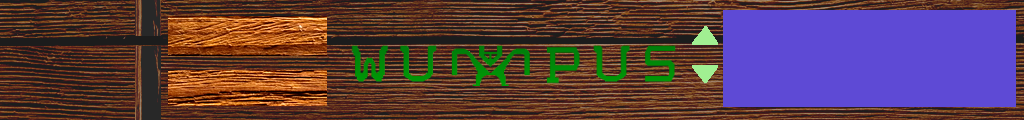
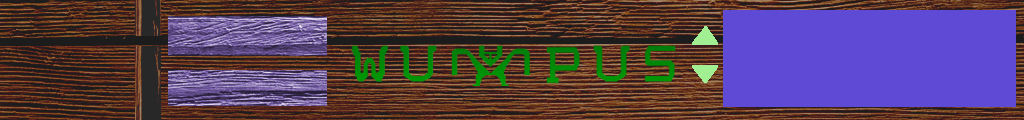
Add menu
Add menu. Add regionMenu and code to control. Add seed for PickMap. Change
bacjground(button). Add ChangeSeed to Utily

Changed region(s): [[0.1562, 0.125, 0.3438, 0.475], [0.1562, 0.575, 0.3438, 0.9]]

diff --git a/HuntTheWumpus/HuntTheWumpus/Control.cs b/HuntTheWumpus/HuntTheWumpus/Control.cs
@@ -35,8 +35,8 @@ namespace HuntTheWumpus
             NoLuck,
             Empty
         }
-        
-        private ControlState state = ControlState.PickCave;
+
+        private ControlState state = ControlState.MainMenu;
         private ControlState OldState = ControlState.MainMenu;
 
         private int Width, Height;
@@ -47,7 +47,7 @@ namespace HuntTheWumpus
         private System.Diagnostics.Stopwatch BatTimer;
         private bool WaitBat;
         private StoryMG StoryMiniGame;
-        
+
         private Scores score;
 
         private List<string> HintMessage;
@@ -55,22 +55,23 @@ namespace HuntTheWumpus
         int num = 0;
         private Map[] MapForPiсk;
         private Map map;
+        private string seed = "";
 
         private bool IsWin;
         public Player player;
-        
+
         public View view;
 
         public Control(int width, int height)
         {
-			view = new View(width, height);
-			Width = width;
-			Height = height;
-			view.InitEvent(KeyDown, MouseDown, MouseUp, MouseMove);
+            view = new View(width, height);
+            Width = width;
+            Height = height;
+            score = new Scores(Width, Height);
+            view.InitEvent(KeyDown, MouseDown, MouseUp, MouseMove);
             view.ClearConsole();
             BatTimer = new System.Diagnostics.Stopwatch();
             MapForPiсk = new Map[5];
-            NewGame();
             HintMessage = new List<string>();
             HintMessage.Add("Wumpus in ");
             HintMessage.Add("Pit in ");
@@ -82,9 +83,9 @@ namespace HuntTheWumpus
         {
             if (state == ControlState.Cave)
             {
-				view.Clear();
-				view.DrawCave(map.graph, map.isActive, map.GetDangerList(), map.danger, map.Room, player.Coins, player.Arrow);
-				if (!MiniGameEnd)
+                view.Clear();
+                view.DrawCave(map.graph, map.isActive, map.GetDangerList(), map.danger, map.Room, player.Coins, player.Arrow);
+                if (!MiniGameEnd)
                 {
                     minigame.DrawMiniGame(view.Graphics);
                     minigame.TickTime();
@@ -97,7 +98,7 @@ namespace HuntTheWumpus
                         {
                             IsWin = false;
                             state = ControlState.LastWindow;
-							score.SetFinalState(false);
+                            score.SetFinalState(false);
                         }
                         if (minigame.Is_Winner && StoryMiniGame == StoryMG.BuyHint)
                         {
@@ -124,9 +125,10 @@ namespace HuntTheWumpus
                         {
                             map.WumpusGoAway();
                         }
-						if (minigame.Is_Winner) {
-							score.AddScores(50);
-						}
+                        if (minigame.Is_Winner)
+                        {
+                            score.AddScores(50);
+                        }
                         MiniGameEnd = true;
                     }
                 }
@@ -163,7 +165,7 @@ namespace HuntTheWumpus
                         view.AddComand("I smell a Wumpus!(" + (map.Room + 1) + ")");
                 }
                 score.DrawScores(view.Graphics);
-			}
+            }
 
             if (state == ControlState.MainMenu)
             {
@@ -172,7 +174,7 @@ namespace HuntTheWumpus
 
             if (state == ControlState.PickCave)
             {
-                view.DrawPickCave(MapForPiсk[num].graph, MapForPiсk[num].isActive, num);
+                view.DrawPickCave(MapForPiсk[num].graph, MapForPiсk[num].isActive, num, seed);
             }
 
             if (state == ControlState.LastWindow)
@@ -187,8 +189,8 @@ namespace HuntTheWumpus
 
             if (time > 0)
                 view.DrawText((1000 / time).ToString(), 5, 5, 10);
-			score.TickTime();
-		}
+            score.TickTime();
+        }
 
         void ContinueMenu()
         {
@@ -214,6 +216,7 @@ namespace HuntTheWumpus
             BatTimer.Reset();
             WaitBat = false;
             view.UpdateImage();
+            state = ControlState.PickCave;
         }
 
         public void KeyDown(object sender, KeyEventArgs e)
@@ -233,33 +236,53 @@ namespace HuntTheWumpus
                 else if (state == ControlState.LastWindow)
                     state = ControlState.ScoreList;
                 else if (state == ControlState.ScoreList)
-                    OldState = state = ControlState.MainMenu;
+                    state = ControlState.MainMenu;
+                else if (state == ControlState.PickCave)
+                {
+                    state = ControlState.MainMenu;
+                    OldState = ControlState.PickCave;
+                }
+            }
+            if (e.KeyCode >= Keys.D0 && e.KeyCode <= Keys.D9)
+            {
+                if (state == ControlState.PickCave && seed.Length < 16)
+                {
+                    seed += (e.KeyCode - Keys.D0);
+                }
+            }
+            if (e.KeyCode == Keys.Back)
+            {
+                if (state == ControlState.PickCave)
+                {
+                    if (seed.Length > 0)
+                        seed = seed.Remove(seed.Length - 1);
+                }
             }
         }
 
         public void MouseDown(object sender, MouseEventArgs e)
         {
-			if (state == ControlState.Cave && !MiniGameEnd)
+            if (state == ControlState.Cave && !MiniGameEnd)
             {
                 minigame.Down(e);
             }
             if (state == ControlState.Cave && MiniGameEnd && !view.IsAnimated && !WaitBat)
             {
-				RegionCave rg = view.GetRegionCave(e.X, e.Y);
+                RegionCave rg = view.GetRegionCave(e.X, e.Y);
                 if (rg >= 0 && (int)rg < 6 && map.isActive[map.Room][(int)rg])
                 {
                     if (e.Button == MouseButtons.Left)
                     {
-						int add = map.Move((int)rg);
-						player.AddCoins(add);
-						score.AddScores(5 * add);
+                        int add = map.Move((int)rg);
+                        player.AddCoins(add);
+                        score.AddScores(5 * add);
                         if (map.danger == Danger.Bat)
                         {
                             BatTimer.Restart();
                             WaitBat = true;
                         }
-						view.StartMoveAnimation((int)rg);
-						CheckDanger = false;
+                        view.StartMoveAnimation((int)rg);
+                        CheckDanger = false;
                         List<string> achiv = new List<string>();
                         map.GetAchievement(achiv);
                         score.getAchievement(achiv);
@@ -272,12 +295,12 @@ namespace HuntTheWumpus
                         {
                             IsWin = true;
                             state = ControlState.LastWindow;
-							score.SetFinalState(true);
+                            score.SetFinalState(true);
                         }
                         else if (player.Arrow == 0)
                         {
                             IsWin = false;
-							score.SetFinalState(false);
+                            score.SetFinalState(false);
                             state = ControlState.LastWindow;
                         }
                         List<string> achiv = new List<string>();
@@ -306,17 +329,20 @@ namespace HuntTheWumpus
             }
             if (state == ControlState.MainMenu)
             {
-                int rg = view.GetRegionMainMenu(e.X, e.Y);
-                if (rg == 1)//Новая игра
+                RegionMenu rg = view.GetRegionMainMenu(e.X, e.Y);
+                if (rg == RegionMenu.NewGame)
                 {
-                    state = ControlState.PickCave;
-					NewGame();
-				}
-                if (rg == 2)//Продолжить
+                    NewGame();
+                }
+                if (rg == RegionMenu.Continue)
                 {
                     ContinueMenu();
                 }
-                if (rg == 3)//Выход
+                if (rg == RegionMenu.ScoreList)
+                {
+                    state = ControlState.ScoreList;
+                }
+                if (rg == RegionMenu.Exit)
                 {
                     Application.Exit();
                 }
@@ -330,7 +356,13 @@ namespace HuntTheWumpus
                 }
                 if (rg == RegionPickCave.Play)
                 {
-                    map = MapForPiсk[num];
+                    if (seed == "")
+                        map = MapForPiсk[num];
+                    else
+                    {
+                        Utily.ChangeSeed(long.Parse(seed));
+                        map = new Map();
+                    }
                     state = ControlState.Cave;
                 }
             }
@@ -352,7 +384,7 @@ namespace HuntTheWumpus
             {
                 minigame.Move(e);
             }
-			if (state == ControlState.LastWindow)
+            if (state == ControlState.LastWindow)
                 score.MouseMove(e);
         }
     }

diff --git a/HuntTheWumpus/HuntTheWumpus/View.cs b/HuntTheWumpus/HuntTheWumpus/View.cs
@@ -33,6 +33,14 @@ namespace HuntTheWumpus
         Play,
         Empty
     }
+    public enum RegionMenu
+    {
+        NewGame,
+        Continue,
+        ScoreList,
+        Exit,
+        Empty
+    }
 
     public class View
     {
@@ -144,7 +152,7 @@ namespace HuntTheWumpus
             ScaleRoomX.Add(0.67f);      // 5 item
             ScaleRoomY.Add(-0.5f);
             #endregion
-            MainMenuImage = Image.FromFile(@".\data\Sprites\MainMenuBackground.png");
+            MainMenuImage = Image.FromFile(@".\data\Sprites\Menu.png");
             MainForm = new Form1(Drawing, width, height);
             MainForm.Show();
             deltaY = height / 36 + 30;
@@ -199,9 +207,19 @@ namespace HuntTheWumpus
             Graphics.DrawImage(MainMenuImage, 0, 0, Width, Height);
         }
 
-        public int GetRegionMainMenu(int x, int y)
+        public RegionMenu GetRegionMainMenu(int x, int y)
         {
-            return -1;//тут бы enum
+            if (x < 287 || x > 745)
+                return RegionMenu.Empty;
+            if (y >= 182 && y <= 256)
+                return RegionMenu.NewGame;
+            if (y >= 290 && y <= 365)
+                return RegionMenu.Continue;
+            if (y >= 394 && y <= 459)
+                return RegionMenu.ScoreList;
+            if (y >= 486 && y <= 549)
+                return RegionMenu.Exit;
+            return RegionMenu.Empty;
         }
 
         public void DrawRoom(int x, int y, Danger danger, int number, List<int>[] graph, List<bool>[] Active, bool StartRoom, bool DrawDanger = false)
@@ -292,8 +310,8 @@ namespace HuntTheWumpus
             DrawText("Arrows " + arrows, 10, yup + 10, 20, "Arial", Color.White);
             DrawText("Coins " + coins, 10, yup + 40, 20, "Arial", Color.White);
             DrawText("Room " + (room + 1), 10, yup + 70, 20, "Arial", Color.White);
-            DrawText("Buy Arrows", 170, yup + 20, 22, "Arial", Color.DarkBlue);
-            DrawText("Buy Hint", 170, yup + 70, 20, "Arial", Color.DarkBlue);
+            DrawText("Buy Arrows", 170, yup + 20, 22, "Arial", Color.FromArgb(0, 255, 0));
+            DrawText("Buy Hint", 170, yup + 70, 20, "Arial", Color.FromArgb(0, 255, 0));
             for (int i = IndexConsole; i > IndexConsole - 5 && i >= 0; --i)
                 DrawText(ConsoleList[i], 730, yup + 10 + (IndexConsole - i) * 18, 15, "Consolas", Color.White);
         }
@@ -432,7 +450,7 @@ namespace HuntTheWumpus
                 IndexConsole = Math.Max(IndexConsole + up, 4);
         }
 
-        public void DrawPickCave(List<int>[] graph, List<bool>[] isActive, int num)
+        public void DrawPickCave(List<int>[] graph, List<bool>[] isActive, int num, string seed)
         {
             Clear(Color.DarkOrange);
             int size = 55;
@@ -473,8 +491,13 @@ namespace HuntTheWumpus
             {
                 if (i > 0)
                     Graphics.DrawLine(new Pen(Color.Black), i * Width / 5, Height - 120, i * Width / 5, Height);
+                if (i != num)
+                    Graphics.DrawLine(new Pen(Color.Black), i * Width / 5, Height - 120, (i + 1) * Width / 5, Height - 120);
                 DrawText((i + 1).ToString(), i * Width / 5 + 70, Height - 100, 40);
             }
+            DrawText("Enter your seed:", 660, 100, 30);
+            Graphics.FillRectangle(Brushes.White, 660, 145, 360, 50);
+            DrawText(seed, 658, 150, 30);
             DrawText("GO!!", 850, 550, 40);
         }
 

diff --git a/HuntTheWumpus/AllTest/Class1.cs b/HuntTheWumpus/AllTest/Class1.cs
@@ -44,7 +44,7 @@ namespace xUnit.Tests
             view.Graphics.FillRectangle(Brushes.Aqua, 0, 0, 10, 10);
             view.DrawMainMenu();
             var map = new HuntTheWumpus.Map();
-            view.DrawPickCave(map.graph, map.isActive, 0);
+            view.DrawPickCave(map.graph, map.isActive, 0, "112");
             view.MainForm.DrawAll();
         }
 

diff --git a/HuntTheWumpus/HuntTheWumpus/Utily.cs b/HuntTheWumpus/HuntTheWumpus/Utily.cs
@@ -19,5 +19,9 @@ namespace HuntTheWumpus
             a = b;
             b = c;
         }
+        public static void ChangeSeed(long seed)
+        {
+            random = new Random((int)seed);
+        }
     }
 }
